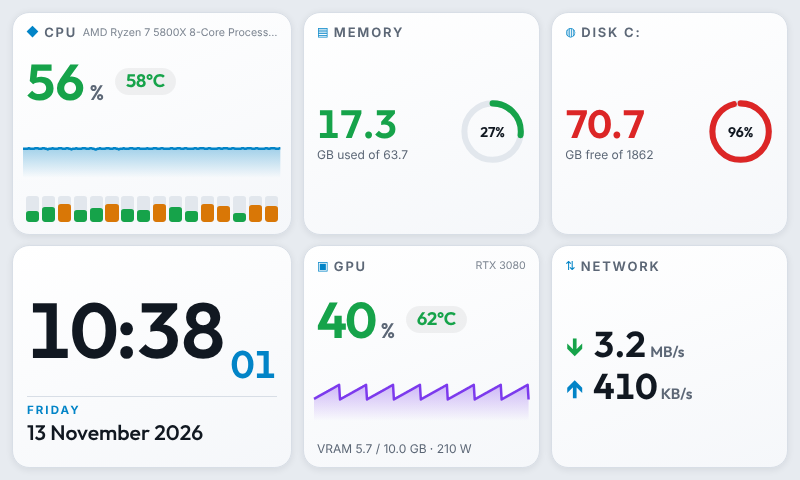
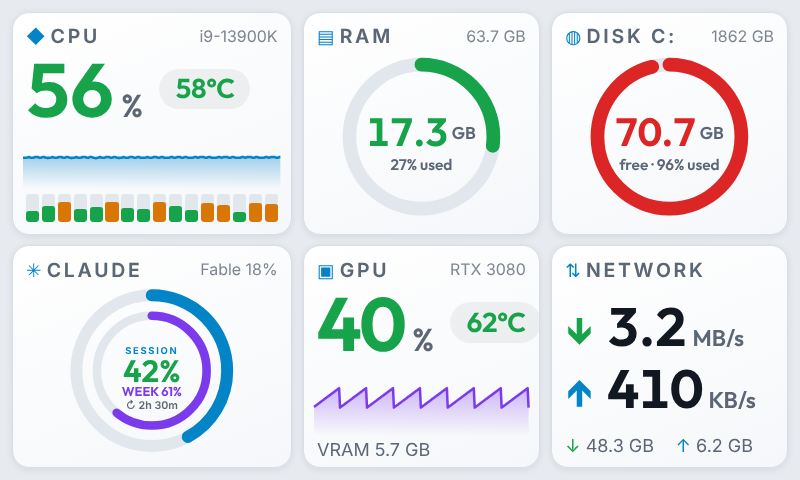
v1.5.0: max sizes by default, RAM ring tile, concentric Claude rings
Claude-Session: https://claude.ai/code/session_012C1HCLEP1UKrgaqZb5bfPc

diff --git a/src/main.tsx b/src/main.tsx
@@ -60,9 +60,9 @@ const DEFAULT_CFG: Cfg = {
   theme: 'dark',
   dayStart: 7,
   nightStart: 19,
-  textScale: 100,
-  numberScale: 100,
-  graphScale: 100,
+  textScale: 150,
+  numberScale: 150,
+  graphScale: 160,
   accent: '#4fc3f7',
   clock24: false,
   claudeWindows: ['session', 'weekly', 'model'],
@@ -188,28 +188,6 @@ function Spark({ data, color, len, min = 0, max = 100 }: { data: number[]; color
   )
 }
 
-function Ring({ value, color }: { value: number; color: string }) {
-  const r = 42
-  const c = 2 * Math.PI * r
-  return (
-    <svg className="ring" viewBox="0 0 100 100">
-      <circle cx="50" cy="50" r={r} className="ring-bg" />
-      <circle
-        cx="50"
-        cy="50"
-        r={r}
-        stroke={color}
-        className="ring-fg"
-        strokeDasharray={`${(c * Math.min(100, value)) / 100} ${c}`}
-        transform="rotate(-90 50 50)"
-      />
-      <text x="50" y="50" className="ring-txt">
-        {value}%
-      </text>
-    </svg>
-  )
-}
-
 // ---------------------------------------------------------------- app
 function App() {
   const [s, setS] = useState<Stats | null>(null)
@@ -330,6 +308,41 @@ function App() {
     )
   }
 
+  // One ring that fills the tile, value and % inside it (RAM, disks, GPU memory)
+  function RingTile({ label, icon, right, value, unit, sub, load }: { label: string; icon: string; right?: string; value: string; unit: string; sub: string; load: number }) {
+    const r = 84
+    const circ = 2 * Math.PI * r
+    return (
+      <div className="tile">
+        <Head label={label} icon={icon} right={right} />
+        <div className="bigring-wrap">
+          <svg className="bigring" viewBox="0 0 200 200">
+            <circle cx="100" cy="100" r={r} className="ring-bg" style={{ strokeWidth: 16 }} />
+            <circle
+              cx="100"
+              cy="100"
+              r={r}
+              className="ring-fg"
+              style={{ strokeWidth: 16 }}
+              stroke={tone(load)}
+              strokeDasharray={`${(circ * Math.min(100, load)) / 100} ${circ}`}
+              transform="rotate(-90 100 100)"
+            />
+            <text x="100" y="94" className="br-main" style={{ fill: tone(load) }}>
+              {value}
+              <tspan className="br-unit" dx="4">
+                {unit}
+              </tspan>
+            </text>
+            <text x="100" y="132" className="br-sub">
+              {sub}
+            </text>
+          </svg>
+        </div>
+      </div>
+    )
+  }
+
   function renderTile(kind: string, st: Stats, key: string) {
     if (kind === 'cpu')
       return (
@@ -369,20 +382,7 @@ function App() {
 
     if (kind === 'ram') {
       const mem = pct(st.memUsed, st.memTotal)
-      return (
-        <div className="tile" key={key}>
-          <Head label="Memory" icon="▤" />
-          <div className="split">
-            <div className="split-main">
-              <div className="big">
-                <span style={{ color: tone(mem) }}>{gb(st.memUsed)}</span>
-              </div>
-              <div className="sub">GB used</div>
-            </div>
-            <Ring value={mem} color={tone(mem)} />
-          </div>
-        </div>
-      )
+      return <RingTile key={key} label="RAM" icon="▤" right={`${gb(st.memTotal)} GB`} value={gb(st.memUsed)} unit="GB" sub={`${mem}% used`} load={mem} />
     }
 
     if (kind === 'gpu') {
@@ -408,20 +408,7 @@ function App() {
     if (kind === 'vram') {
       if (!st.gpu) return <Missing key={key} label="VRAM" icon="▣" why="No NVIDIA GPU found" />
       const v = pct(st.gpu.memUsed, st.gpu.memTotal)
-      return (
-        <div className="tile" key={key}>
-          <Head label="GPU memory" icon="▣" />
-          <div className="split">
-            <div className="split-main">
-              <div className="big">
-                <span style={{ color: tone(v) }}>{gb(st.gpu.memUsed)}</span>
-              </div>
-              <div className="sub">GB used</div>
-            </div>
-            <Ring value={v} color={tone(v)} />
-          </div>
-        </div>
-      )
+      return <RingTile key={key} label="VRAM" icon="▣" right={`${gb(st.gpu.memTotal)} GB`} value={gb(st.gpu.memUsed)} unit="GB" sub={`${v}% used`} load={v} />
     }
 
     if (kind === 'cpuTemp') {
@@ -449,20 +436,7 @@ function App() {
       const name = d === '/' ? 'Disk /' : `Disk ${d}:`
       if (!disk) return <Missing key={key} label={name} icon="◍" why="Drive not found" />
       const u = pct(disk.used, disk.total)
-      return (
-        <div className="tile" key={key}>
-          <Head label={name} icon="◍" />
-          <div className="split">
-            <div className="split-main">
-              <div className="big">
-                <span style={{ color: tone(u) }}>{gb(disk.total - disk.used)}</span>
-              </div>
-              <div className="sub">GB free</div>
-            </div>
-            <Ring value={u} color={tone(u)} />
-          </div>
-        </div>
-      )
+      return <RingTile key={key} label={name} icon="◍" right={`${gb(disk.total)} GB`} value={gb(disk.total - disk.used)} unit="GB" sub={`free · ${u}% used`} load={u} />
     }
 
     if (kind === 'net') {
@@ -532,19 +506,62 @@ function App() {
     if (kind === 'claude') {
       const c = lastClaude.current ?? st.claude
       const want = (k: string) => cfg.claudeWindows.includes(k.startsWith('model:') ? 'model' : k)
-      const wins = (c?.windows ?? []).filter((w) => want(w.key)).slice(0, 3)
-      if (!wins.length) return <Missing key={key} label="Claude" icon="✳" why={c?.error ?? 'Waiting for usage…'} />
+      const wins = (c?.windows ?? []).filter((w) => want(w.key))
+      const session = wins.find((w) => w.key === 'session')
+      const weekly = wins.find((w) => w.key === 'weekly')
+      const models = wins.filter((w) => w.key.startsWith('model:'))
+      if (!session && !weekly) return <Missing key={key} label="Claude" icon="✳" why={c?.error ?? 'Waiting for usage…'} />
+      const arc = (r: number, w: number, value: number, color: string) => {
+        const circ = 2 * Math.PI * r
+        return (
+          <>
+            <circle cx="100" cy="100" r={r} className="ring-bg" style={{ strokeWidth: w }} />
+            <circle
+              cx="100"
+              cy="100"
+              r={r}
+              className="ring-fg"
+              style={{ strokeWidth: w }}
+              stroke={color}
+              strokeDasharray={`${(circ * Math.min(100, value)) / 100} ${circ}`}
+              transform="rotate(-90 100 100)"
+            />
+          </>
+        )
+      }
+      const reset = session ? resetIn(session.resetsAt, clockNow) : ''
       return (
         <div className="tile" key={key}>
-          <Head label="Claude" icon="✳" right={c?.error ? '!' : undefined} />
-          <div className={`rings n${wins.length}`}>
-            {wins.map((w) => (
-              <div key={w.key} className="ringcell">
-                <Ring value={w.pct} color={tone(w.pct)} />
-                <div className="ringlabel">{w.label}</div>
-                <div className="ringsub">{resetIn(w.resetsAt, clockNow)}</div>
-              </div>
-            ))}
+          <Head
+            label="Claude"
+            icon="✳"
+            right={[...models.map((m) => `${m.label} ${m.pct}%`), c?.error ? '!' : ''].filter(Boolean).join(' · ') || undefined}
+          />
+          <div className="bigring-wrap">
+            <svg className="bigring" viewBox="0 0 200 200">
+              {session && arc(88, 14, session.pct, 'var(--accent)')}
+              {weekly && arc(session ? 64 : 88, session ? 10 : 14, weekly.pct, 'var(--accent2)')}
+              {session && (
+                <>
+                  <text x="100" y="76" className="cl-label" style={{ fill: 'var(--accent)' }}>
+                    SESSION
+                  </text>
+                  <text x="100" y="100" className="cl-main" style={{ fill: tone(session.pct) }}>
+                    {session.pct}%
+                  </text>
+                </>
+              )}
+              {weekly && (
+                <text x="100" y={session ? 124 : 100} className={session ? 'cl-week' : 'cl-main'} style={{ fill: 'var(--accent2)' }}>
+                  {session ? `WEEK ${weekly.pct}%` : `${weekly.pct}%`}
+                </text>
+              )}
+              {reset && (
+                <text x="100" y={session ? 141 : 124} className="cl-reset">
+                  ↻ {reset}
+                </text>
+              )}
+            </svg>
           </div>
         </div>
       )

diff --git a/src/index.css b/src/index.css
@@ -176,3 +176,22 @@ body { font-family: 'Inter Variable', system-ui, -apple-system, 'Segoe UI', Robo
 .rings .ring-txt { font-size: 24px; }
 .ringlabel { font-size: calc(2.7vh * var(--ts)); }
 .ringsub { font-size: calc(2.3vh * var(--ts)); }
+
+/* big single-ring tiles (RAM, Claude): the ring fills the tile, text lives inside it */
+.bigring-wrap { flex: 1; min-height: 0; display: flex; align-items: center; justify-content: center; margin-top: 0.6vh; }
+.bigring { height: 100%; width: 100%; max-height: 100%; display: block; overflow: visible; }
+.bigring .ring-bg, .bigring .ring-fg { fill: none; }
+.br-main { font-family: 'Outfit Variable', system-ui, sans-serif; font-weight: 650; font-size: 46px; text-anchor: middle; dominant-baseline: central; font-variant-numeric: tabular-nums; }
+.br-unit { font-size: 20px; fill: var(--dim); font-weight: 600; }
+.br-sub { fill: var(--dim); font-family: 'Outfit Variable', system-ui, sans-serif; font-weight: 600; font-size: 22px; text-anchor: middle; dominant-baseline: central; }
+.cl-label { font-family: 'Inter Variable', system-ui, sans-serif; font-weight: 700; font-size: 12px; letter-spacing: 2px; text-anchor: middle; dominant-baseline: central; }
+.cl-main { font-family: 'Outfit Variable', system-ui, sans-serif; font-weight: 650; font-size: 34px; text-anchor: middle; dominant-baseline: central; font-variant-numeric: tabular-nums; }
+.cl-week { font-family: 'Outfit Variable', system-ui, sans-serif; font-weight: 650; font-size: 15px; text-anchor: middle; dominant-baseline: central; }
+.cl-reset { fill: var(--dim); font-family: 'Inter Variable', system-ui, sans-serif; font-weight: 600; font-size: 12px; text-anchor: middle; dominant-baseline: central; }
+.br-sub { font-size: 18px; }
+.cl-main { font-size: 36px; }
+.cl-week { font-size: 15px; }
+.cl-label { font-size: 11px; }
+.cl-reset { font-size: 12.5px; }
+.clock-date .date { font-size: min(calc(4.4vh * var(--ts)), 5.2vh); }
+.chip { white-space: nowrap; }

diff --git a/server/index.ts b/server/index.ts
@@ -91,9 +91,9 @@ const DEFAULT: Cfg = {
   theme: 'dark',
   dayStart: 7,
   nightStart: 19,
-  textScale: 100,
-  numberScale: 100,
-  graphScale: 100,
+  textScale: 150,
+  numberScale: 150,
+  graphScale: 160,
   accent: '#4fc3f7',
   clock24: false,
   claudeSource: 'auto',
@@ -258,9 +258,9 @@ function settingsDef(): Record<string, unknown> {
     nightStart: select('nightStart', '🎨 Auto theme · night starts at', String(cfg.nightStart), hours, {
       dependsOn: [{ settingId: 'theme', isValue: 'auto' }]
     }),
-    textScale: range('textScale', '🎨 Text size (%)', cfg.textScale, 70, 150, 5, { description: 'Labels and small text.' }),
-    numberScale: range('numberScale', '🎨 Number size (%)', cfg.numberScale, 70, 150, 5, { description: 'The big values and the clock.' }),
-    graphScale: range('graphScale', '🎨 Graph size (%)', cfg.graphScale, 50, 160, 10, { description: 'Height of graphs and core bars.' }),
+    textScale: range('textScale', '🎨 Text size (%)', cfg.textScale, 70, 150, 5, { description: 'Labels and small text.', version: '1.5.0' }),
+    numberScale: range('numberScale', '🎨 Number size (%)', cfg.numberScale, 70, 150, 5, { description: 'The big values and the clock.', version: '1.5.0' }),
+    graphScale: range('graphScale', '🎨 Graph size (%)', cfg.graphScale, 50, 160, 10, { description: 'Height of graphs and core bars.', version: '1.5.0' }),
     accent: { id: 'accent', type: SETTING_TYPES.COLOR, label: '🎨 Accent colour', value: cfg.accent },
 
     // ---------- Data

diff --git a/CHANGELOG.md b/CHANGELOG.md
@@ -1,5 +1,11 @@
 # Changelog
 
+## 1.5.0
+- Text, number and graph sizes now default to the maximum (150 / 150 / 160 %). Applied once on update.
+- "Memory" is now "RAM". RAM, disk and GPU memory tiles use one large ring that fills the tile, with the value (and a smaller GB) and % inside it.
+- Claude tile redesigned: a large outer ring for the current session and a smaller inner ring for the week. Session %, week % and time until the session resets sit inside. Per-model limits such as Fable show in the tile header.
+- The date under the clock no longer runs off the tile at large text sizes.
+
 ## 1.4.1
 - Claude usage tile no longer flickers to "Waiting for usage"; it keeps the last reading between checks.
 - New setting: check Claude usage every 30 s, 1, 2, 5 or 10 minutes (default 1 minute).
